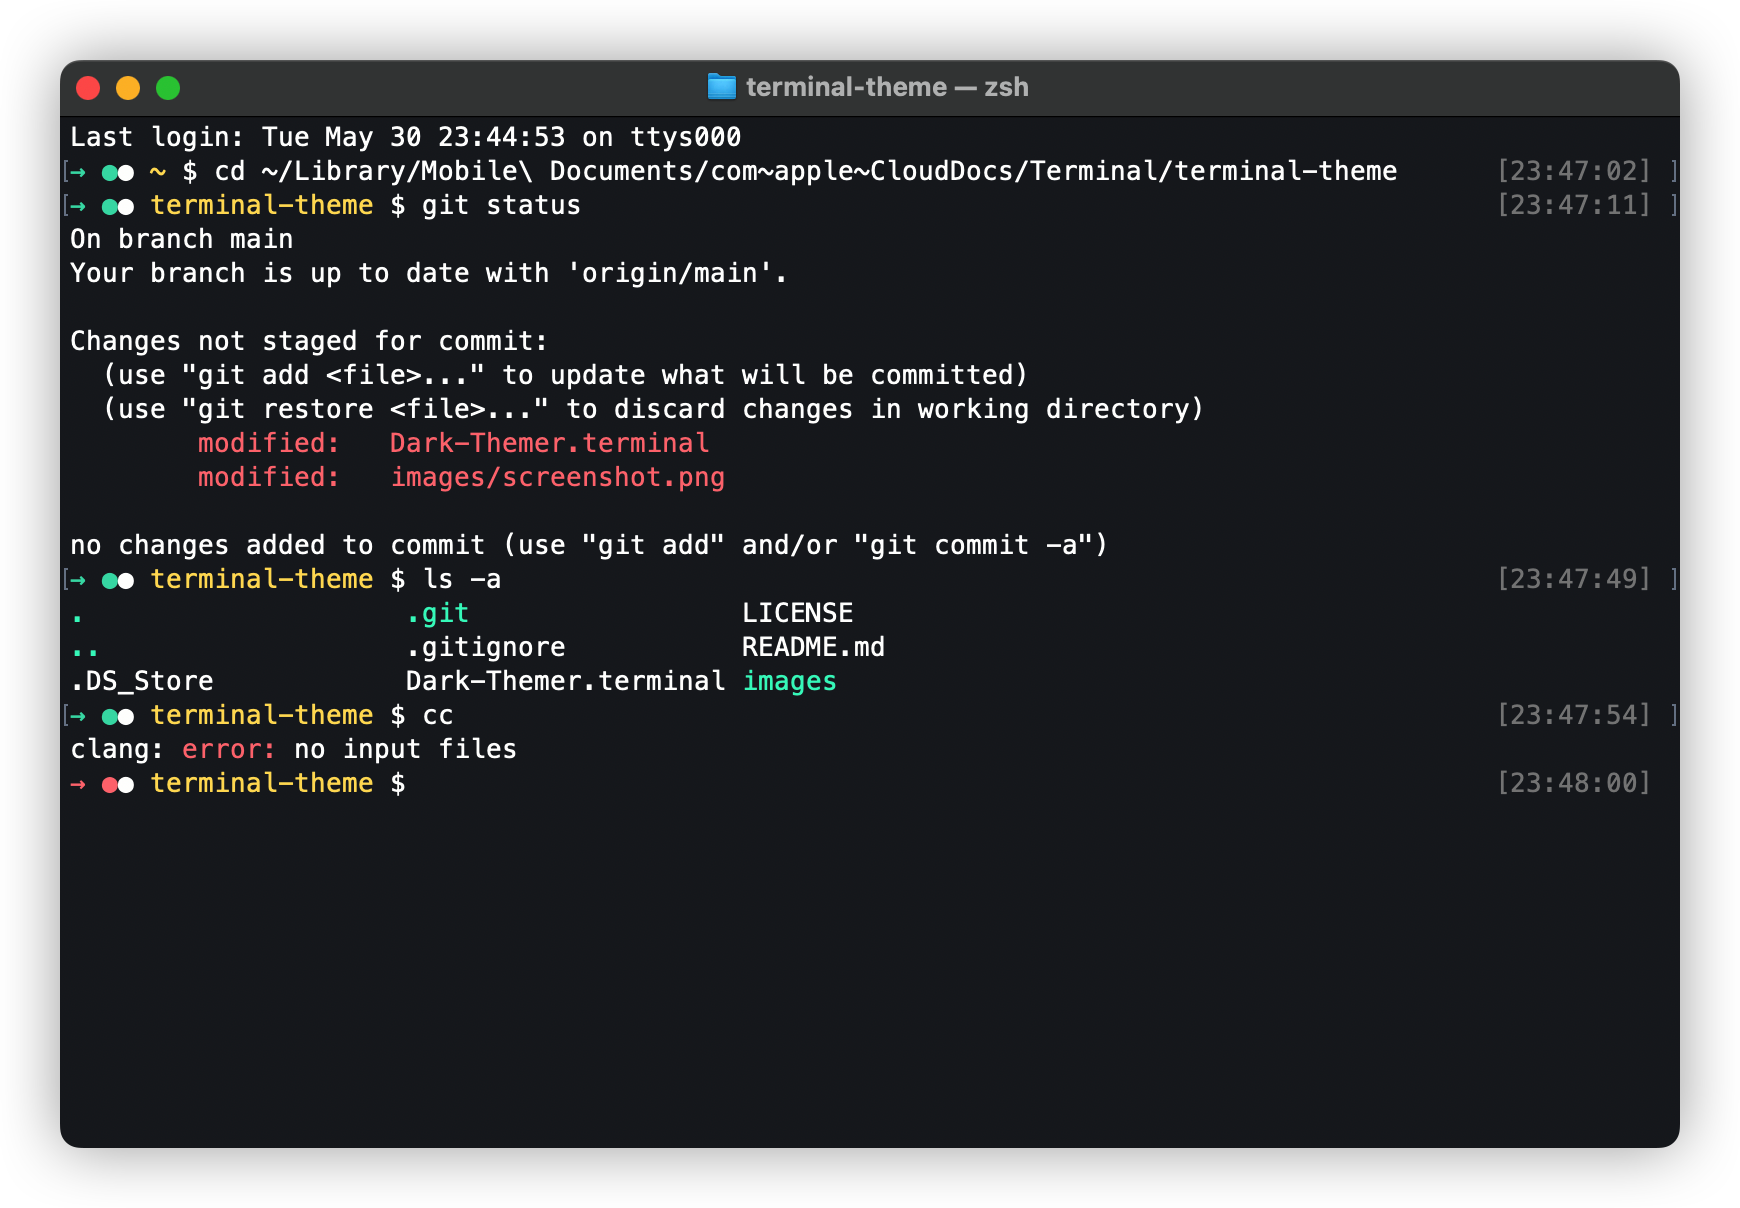
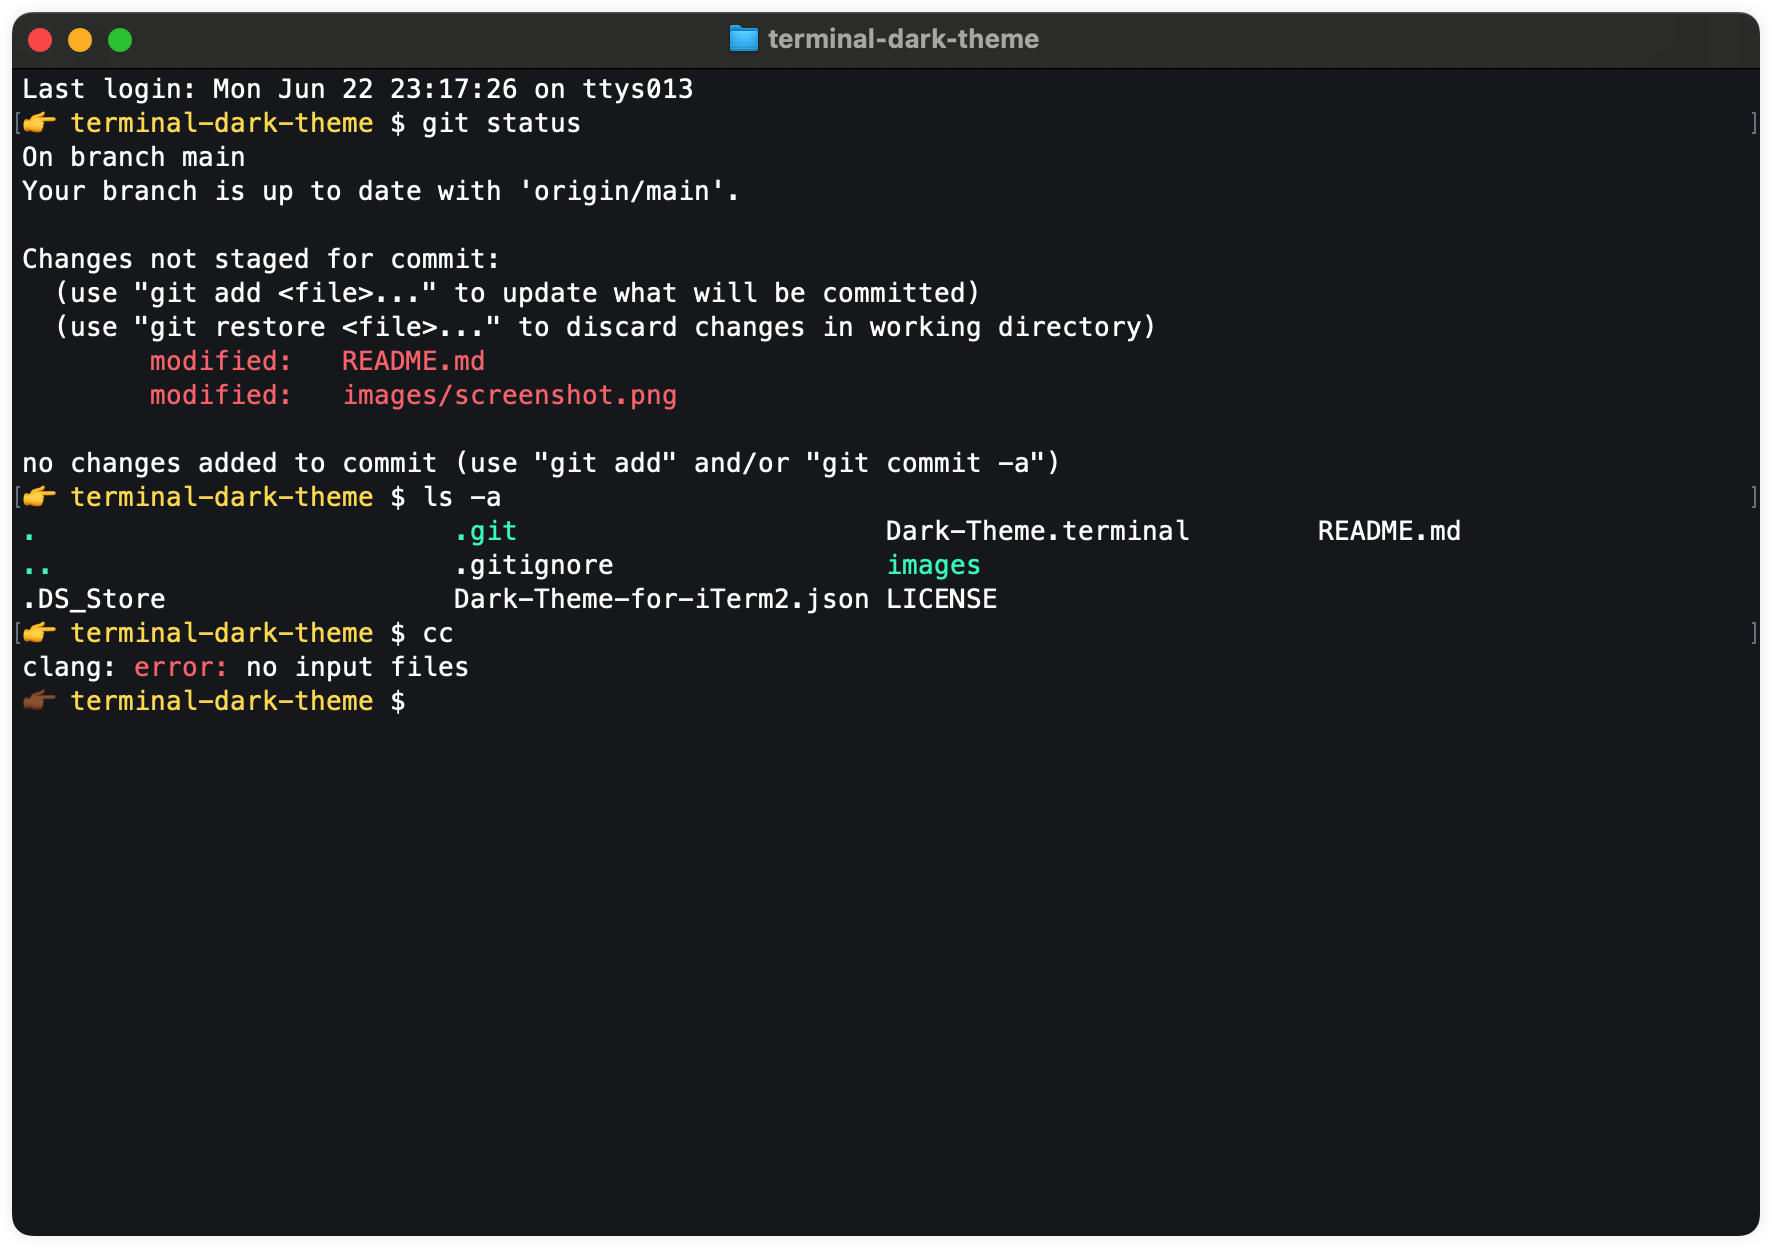
docs: update readme

Changed region(s): [[0.0, 0.0, 0.9931, 1.0], [0.7448, 0.3982, 0.8379, 0.4288]]

diff --git a/README.md b/README.md
@@ -1,12 +1,12 @@
 # Terminal Dark Theme
 
-> A dark theme for macOS Terminal.app
+> A dark theme for macOS Terminal.app and iTerm2
 
 ![Screenshot](./images/screenshot.png)
 
 ## 📥 Download
 
-**Install using Git**
+**Install with Git**
 
 ```shell
 $ git clone https://github.com/tofrankie/terminal-dark-theme.git
@@ -14,22 +14,31 @@ $ git clone https://github.com/tofrankie/terminal-dark-theme.git
 
 **Install manually**
 
-Download [GitHub ZIP](https://github.com/tofrankie/terminal-dark-theme/archive/refs/heads/main.zip) and unzip them.
+Download the [ZIP archive](https://github.com/tofrankie/terminal-dark-theme/archive/refs/heads/main.zip) and extract it
 
-## ⚙️ Activating
+## ⚙️ Importing Profiles
 
-1. Choose Terminal > Preferences, then click Profiles.
-2. Click the Action pop-up menu, choose Import.
-3. Select the `Dark-Theme.terminal` file, then click Open.
-4. Click Default. ❤️
+### Terminal.app
 
-## 🎨 Color Palette
+1. Open Terminal → Settings → Profiles
+2. Click the `Action` pop-up menu, then choose `Import`
+3. Select the `Dark-Theme.terminal` file
+4. Select `Dark Theme`, then click `Default`
+
+### iTerm2
+
+1. Open iTerm2 → Settings → Profiles
+2. Click `Other Actions...`, then choose `Import JSON Profiles...`
+3. Select the `Dark-Theme-for-iTerm2.json` file
+4. Select `Dark Theme`, then click `Set as Default`
+
+## 🎨 ANSI Color Palette
 
 | Palette    | Hex       | Alpha | 🧪                                                             |
-| ---------- | --------- | ----- | -------------------------------------------------------------- |
+| :--------- | :-------- | :---- | :------------------------------------------------------------- |
 | Background | `#1C1F24` | `1`   | ![Background Color](https://placehold.co/20/1C1F24/1C1F24.svg) |
 | Text       | `#FEFEFD` | `1`   | ![Background Color](https://placehold.co/20/FEFEFD/FEFEFD.svg) |
-| Blod Text  | `#FEFEFD` | `1`   | ![Background Color](https://placehold.co/20/FEFEFD/FEFEFD.svg) |
+| Bold Text  | `#FEFEFD` | `1`   | ![Background Color](https://placehold.co/20/FEFEFD/FEFEFD.svg) |
 | Selection  | `#4774F6` | `0.5` | ![Selection Color](https://placehold.co/20/4774F6/4774F6.svg)  |
 | Black      | `#1D1E24` | `1`   | ![Black Color](https://placehold.co/20/1D1E24/1D1E24.svg)      |
 | Red        | `#FF6767` | `1`   | ![Red Color](https://placehold.co/20/FF6767/FF6767.svg)        |
@@ -39,3 +48,7 @@ Download [GitHub ZIP](https://github.com/tofrankie/terminal-dark-theme/archive/r
 | Magenta    | `#D85888` | `1`   | ![Magenta Color](https://placehold.co/20/D85888/D85888.svg)    |
 | Cyan       | `#6AE3B9` | `1`   | ![Cyan Color](https://placehold.co/20/6AE3B9/6AE3B9.svg)       |
 | White      | `#FEFEFD` | `1`   | ![White Color](https://placehold.co/20/FEFEFD/FEFEFD.svg)      |
+
+## 📄 License
+
+MIT License © [Frankie](https://github.com/tofrankie)